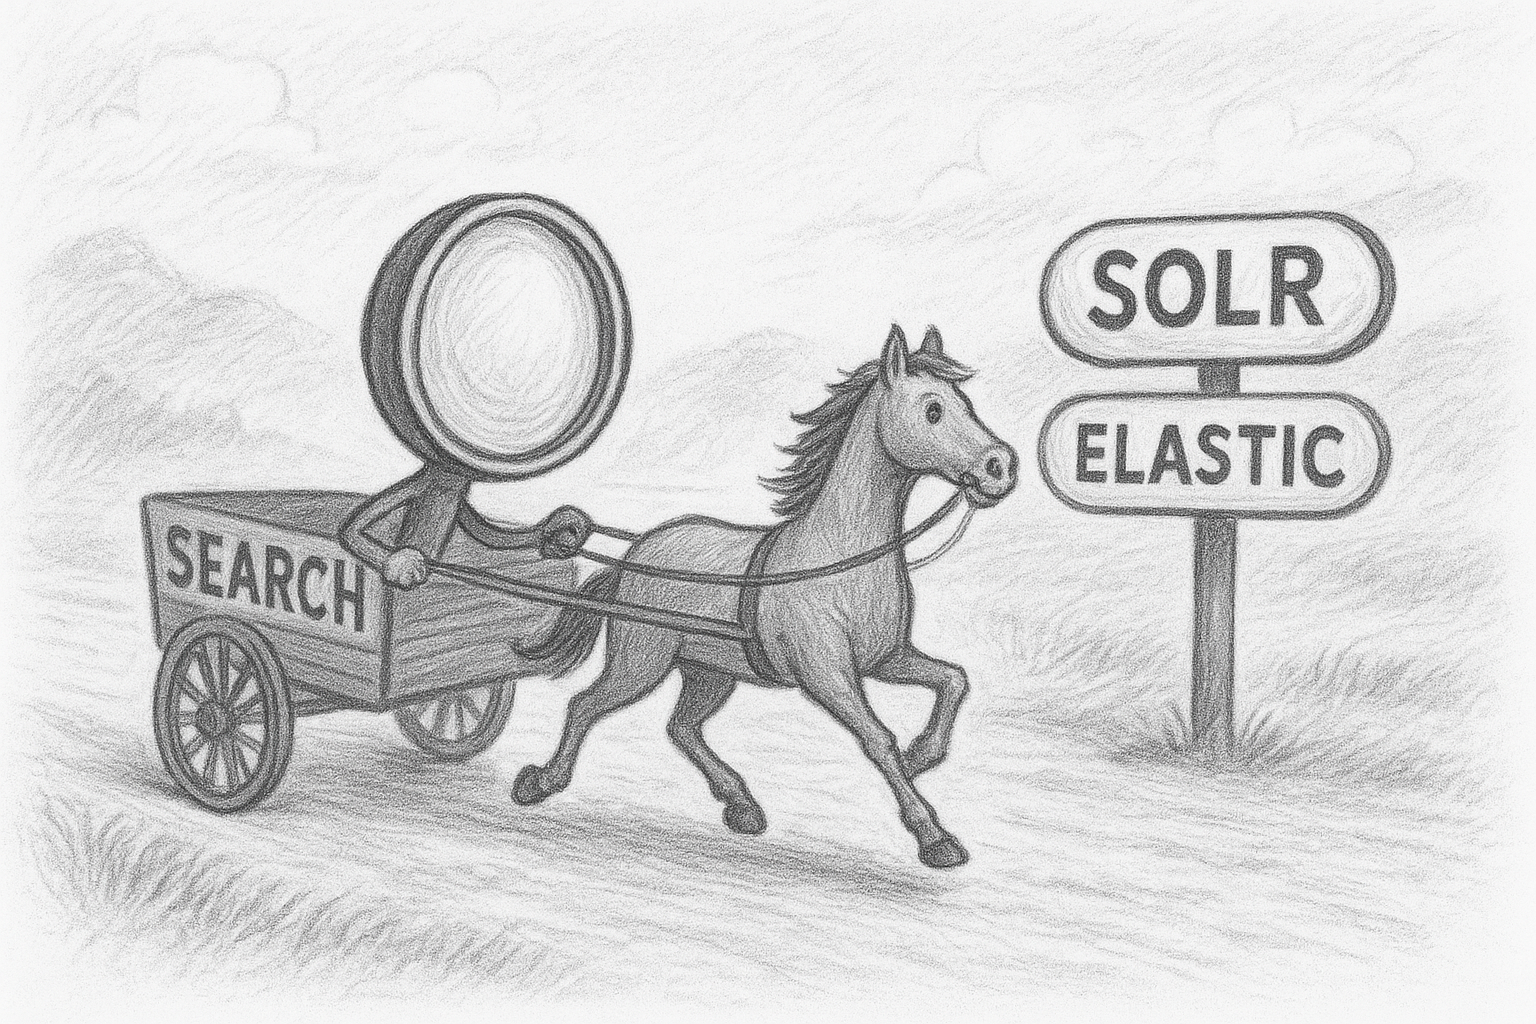
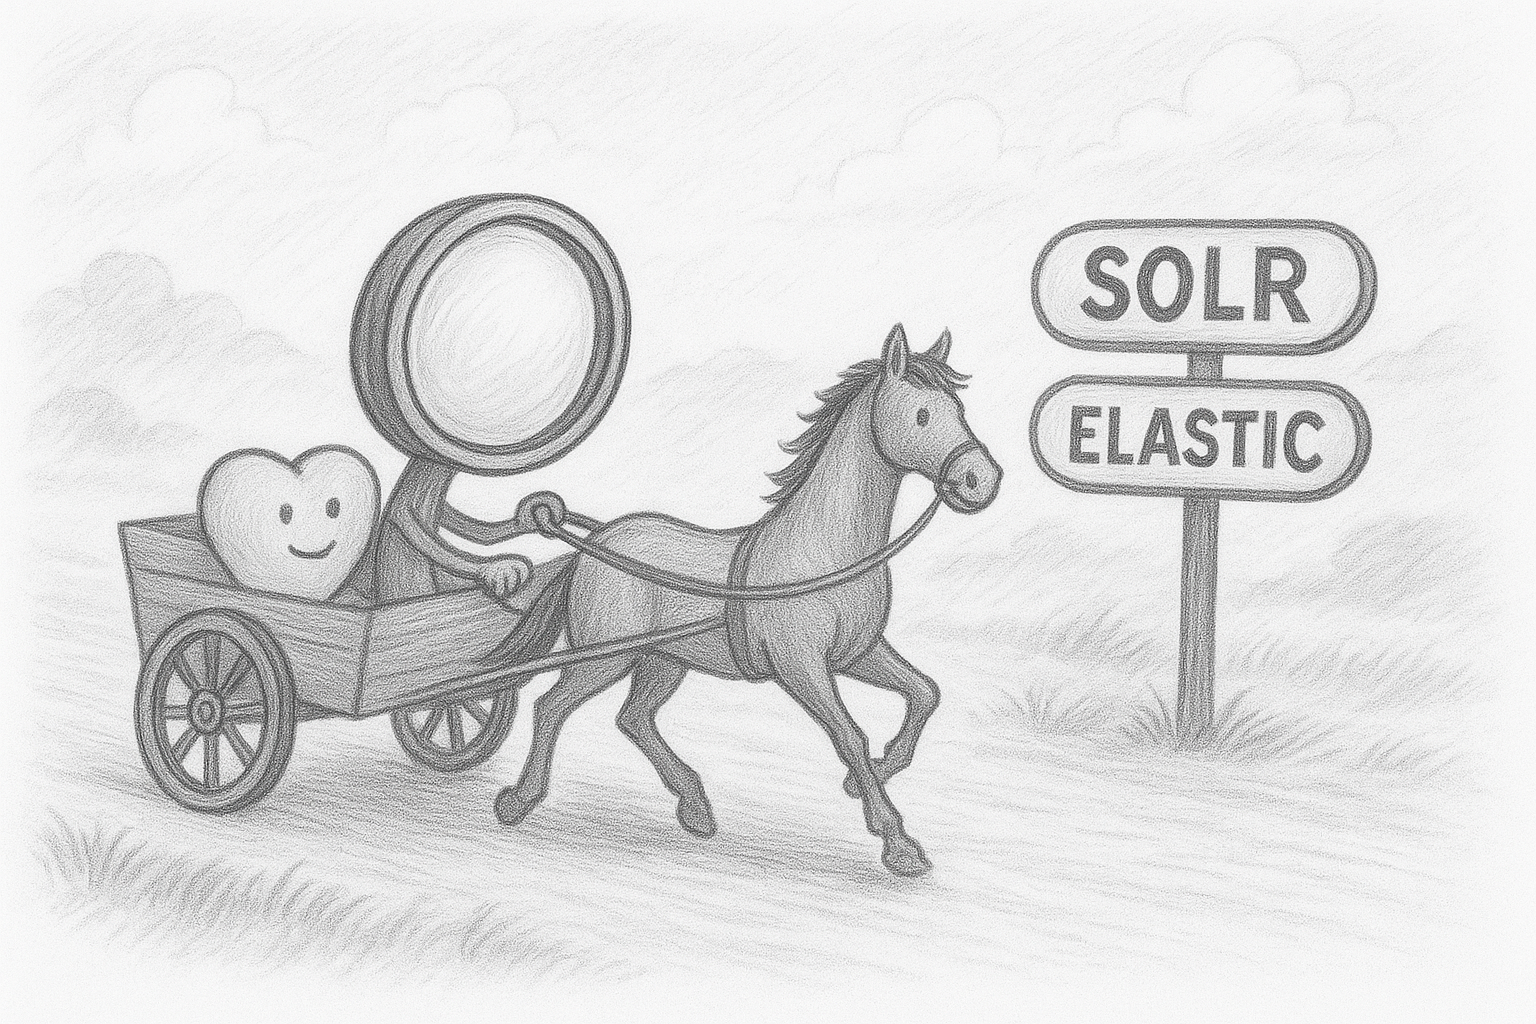
search files

diff --git a/_posts/2026-01-31-artificial-intellient-retail-search-1.md b/_posts/2026-01-31-artificial-intellient-retail-search-1.md
@@ -1,0 +1,86 @@
+---
+title: 'Artificial Intelligent Retail Search is here! (1) - The Legacy & The Problem'
+date: 2026-01-31
+permalink: /posts/2026/01/31/artificial-intelligent-search-1
+tags:
+  - search
+  - ai
+  - retail search
+excerpt: A look back at the "Black Box" era of retail search, why we moved away from it, and the fundamental tension between finding products and making money.
+---
+
+![Endeca/WEX](/images/endeca.png)
+
+## The Real Problem Statement
+
+The goal of retail search sounds deceptively simple: **Help the customer find what they want.**
+
+In practice, this is a minefield. Customers often don't know what they want, or they use vague language. Worse, what they *think* they want often conflicts with what the business needs to sell. We can't simply rank the most expensive items at the top—users will bounce immediately. Conversely, if we give them exactly what they asked for too efficiently, we might miss the opportunity to cross-sell or inspire discovery.
+
+Beyond the psychological tug-of-war, there is the data reality. Catalogs are messy. With thousands of suppliers constantly onboarding and retiring SKUs, even the best teams struggle with misclassifications, missing attributes, and "dirty" data.
+
+The actual goal isn't just retrieval; it's a balancing act: **Connect the user to the right product while ensuring the underlying economics of the business survive.**
+
+## A Brief History of Search (and why Retail is different)
+
+Search is as old as the internet. We had inverted indices in libraries long before we had a World Wide Web. While academic interest in general web search waned as Google and Bing established dominance, retail search remained a distinct, thorny beast.
+
+For the average user, Google set an impossibly high bar. We trust Google so implicitly that if a search fails, we assume we made a typo. Customers bring that same expectation to online retail stores. They expect Google-level fault tolerance, speed, and semantic understanding from a shoe store’s search bar.
+
+Meeting that bar was expensive.
+
+This series walks through the evolution of retail search—from the "Black Box" legacy systems to the cloud era, and finally to the AI revolution. It is difficult to put precise dates on these phases because the industry is uneven; some retailers are still running on tech from 2010, while others are bleeding edge.
+
+But as AI advances, we are approaching a point where the historic friction of search might simply evaporate—much like how the transition from horses to cars solved the problem of manure in the streets. We traded one set of problems for another, but the old mess is gone.
+
+## The Data: A Practical Example
+
+Before we look at the legacy tech, let's establish the data we will be using throughout this series to benchmark our systems. Theoretical discussions are fine, but search is best understood through edge cases.
+
+I’ll be using a dataset of recipes collected from the web (MXP and FXP formats). While this is a "Recipe" search, the structural challenges mirror retail product catalogs perfectly: messy text, varying attribute structures, and subjective categorization.
+
+You can grab the sample data [here](https://github.com/recipegrace/RecipeGrace/blob/master/core/resources/data.zip).
+
+Here is a raw MXP example:
+
+```text
+Recipe By     :"xx" <[email redacted]>
+Serving Size  : 1     Preparation Time :0:00
+Categories    : Daily Bread Mailing List        Miscellaneous & Tips
+
+
+  Amount  Measure       Ingredient -- Preparation Method
+--------  ------------  --------------------------------
+  3             pounds  apples
+  1                cup  apple cider -- to 2 cups
+  1                cup  sugar -- more or less
+
+I make apple butter in my crock pot and it is very easy and very tasty...
+```
+
+Our goal is to handle queries like **“breakfast recipes,” “chicken curry,”** or **“easy chicken and rice.”**
+
+So, how did the "Old Guard" systems handle this?
+
+## The Legacy Era: Endeca, WEX, and the Black Box
+
+I recently asked a few veteran search engineers what they used in the early days of e-commerce. The consensus was murky, but many recalled using out-of-the-box search modules bundled with application servers like IBM WebSphere (the ancestor of Watson Explorer/WEX).
+
+However, in my experience, one name stood above the rest: **Endeca**.
+
+I was part of a team that eventually migrated off Endeca, but I still have respect for it. It was the standard-bearer for a reason.
+
+### The "Black Box" Experience
+The defining characteristic of this era was the "Black Box." We had very little visibility into *how* the engine ranked results. We fed data in one side, and results came out the other.
+
+Engines like Endeca provided tools to manually curate rules—"people who search for *X* should be boosted toward *Y*." But ultimately, being a Search Engineer in this era was less about programming (Java/Python) and more about **Operations and Configuration**. We were essentially specialized DevOps engineers tweaking XML files and proprietary dashboards. The teams were small because there wasn't much code to write.
+
+### Why did we migrate?
+If Endeca worked, why did the industry move to open-source solutions like Solr and Elasticsearch?
+
+1.  **Scale & Stability:** As traffic surged, the dreaded "Black Friday Site Outage" became a career-ending risk for CTOs. Retailers needed horizontal scalability that legacy proprietary systems struggled to provide cost-effectively.
+2.  **Control:** Retailers wanted to own their destiny. The "Black Box" was too limiting. We wanted to tweak the retrieval algorithms, experiment with semantic search, and control the ranking logic directly.
+
+Interestingly, many of the initial migrations were "lift-and-shift." We replaced a proprietary engine with Solr or Elasticsearch but often replicated the exact same logic. In some cases, performance actually dipped initially. We accepted that short-term pain for the long-term gain of owning our infrastructure.
+
+Now that we've covered the legacy landscape, the [next post](posts/2026/02/01/artificial-intelligent-search-2) will dive into the "Builder's Era"—how we used open-source tools to finally take control of the search bar.

diff --git a/_posts/2026-02-01-artificial-intellient-retail-search-2.md b/_posts/2026-02-01-artificial-intellient-retail-search-2.md
@@ -1,0 +1,64 @@
+---
+title: 'Artificial Intelligent Retail Search is here! (2) - The Data Science Era'
+date: 2026-02-01
+permalink: /posts/2026/02/01/artificial-intelligent-search-2
+tags:
+  - search
+  - ai
+  - recipe search
+excerpt: Moving beyond simple keyword matching. How the industry transitioned to hybrid systems, query understanding, and the "Builder's Era" of search relevance.
+---
+
+![Elastic/Solr](/images/elastic.png)
+
+In the previous post, we looked at the "Black Box" era of search. Those legacy systems lived and died by **lexical similarity**—matching the exact characters a user typed to the exact characters in a document. 
+
+While that works for a user who knows the exact name of a dish, it fails the average home cook. In a world where one person searches for "mandy" and another for "mandhi" or "yemeni rice," lexical matching is a blunt instrument. To fix this, we entered an era of "hybrid" systems: combining the raw speed of keyword search with the nuance of semantic intent.
+
+## The Builder’s Era: Open Source & Cloud Search
+
+The rise of Solr, Elasticsearch, and managed services (Google Cloud Search, Azure Cognitive Search) changed the game. For the first time, developers could actually *build* their own search stacks. Even those using managed APIs began building custom wrappers to handle complex routing, personalization, and domain-specific tuning.
+
+The focus shifted from "How do we keep the engine running?" to "How do we make the results relevant?"
+
+
+
+To understand the complexity here, let’s look at the "relevancy stack" in the order a query actually travels through the system using our recipe dataset.
+
+### 1. The Pre-Search Layer: Autocomplete & Suggestions
+These are the "front door" of search. Whether powered by simple search logs or advanced Deep Learning models, their job is to guide the user. By nudging a user toward a "high-performing" query (e.g., suggesting "Classic Chicken Curry" when they type "chick..."), we solve the relevancy problem before the search even starts.
+
+### 2. Query Cleaning: Normalization & Synonyms
+Users are messy. They misspell ingredients, use plurals inconsistently, and swap word orders. 
+* **Normalization:** Handling casing and resolving "surface forms" (e.g., "BBQ Chicken" vs "Barbecue Chicken").
+* **Synonym Expansion:** If a user searches for "cilantro," but your recipe uses the term "coriander," you have a recall problem. Building and maintaining these synonym libraries—linking "capsicum" to "bell pepper"—is a massive, ongoing effort.
+
+### 3. Query Understanding: Entity Recognition
+This is the "crown jewel" of classical search. If your recipe catalog classifies data by **Course**, **Protein**, and **Cuisine**, your search engine needs to translate raw text into those fields.
+* **User Query:** "Spicy Italian pasta with shrimp"
+* **Entity Mapping:** Flavor: `Spicy` | Cuisine: `Italian` | Category: `Pasta` | Main Ingredient: `Shrimp`
+A strong normalization layer makes this mapping much easier, turning chaotic user intent into structured data points that the engine can filter precisely.
+
+### 4. The Signal Layer: User Engagement
+Retrieving a recipe isn't enough; you need to know if it's actually "good." We started passing behavioral signals into the retrieval engine to ensure that recipes with high ratings, saves, or print rates naturally rose to the top.
+This involves complex modeling to:
+* Remove **position bias** (the first recipe gets clicked more just because it's first).
+* Account for **seasonality** (showing "Pumpkin Pie" in October, not July).
+* **Personalize** based on the user’s dietary preferences (e.g., boosting vegetarian options for a specific user).
+
+### 5. The Retrieval Engine & The Data Mess
+Once the query is structured and the signals are ready, it hits the retrieval engine. The engine’s success depends entirely on the quality of the data it’s searching. 
+
+Recipe data is notoriously dirty. In our MXP and FXP datasets, you’ll find duplicate fields, inconsistent units (3 pounds vs. 1.5 kg), and "lazy" classifications. Even a mid-sized recipe site with 3,000 tags is essentially facing a massive, multi-label classification problem. Before you can have great search, you must have a "Data Cleaning" pipeline that standardizes your ingredients and instructions.
+
+
+
+---
+
+### Why are we migrating again?
+
+If we built all these sophisticated layers—normalization, entity recognition, and behavioral signals—why is the industry moving again?
+
+The "Builder's Era" hit a ceiling. These systems are **static**. They rely on manual rules, siloed data, and a limited understanding of "vibe" or context. They struggle with queries like "something light for a summer evening" because the engine is looking for keywords, not "feelings." 
+
+We’ve reached the limits of what "hand-crafted" search can do. In the [final article](posts/2026/03/01/artificial-intelligent-search-3), we’ll look at how LLMs and Vector Search are finally making the "Horse Dung" problem of recipe search a thing of the past.

diff --git a/_drafts/2026-03-01-artificial-intellient-retail-search-3.md b/_drafts/2026-03-01-artificial-intellient-retail-search-3.md
@@ -1,0 +1,19 @@
+---
+title: 'Artificial Intelligent Retail Search is here!'
+date: 2026-03-01
+permalink: /posts/2026/03/01/artificial-intelligent-search-3
+tags:
+  - search
+  - ai
+  - retail search
+excerpt: In this article, I explore the evolution of retail search and attempt to predict the future of retail search
+  
+---
+
+## The Era of AI Search
+
+### What are our projects?
+Showcase how AI is transforming retail search: LLMs for semantic understanding, multimodal search for visual discovery, and generative AI for query reformulation or personalized results.
+
+### Will we migrate again? (Or Are we even needed anymore?)
+End with a thought-provoking reflection — as AI systems learn from user behavior and auto-optimize, what is the new role of search engineers and relevance experts?